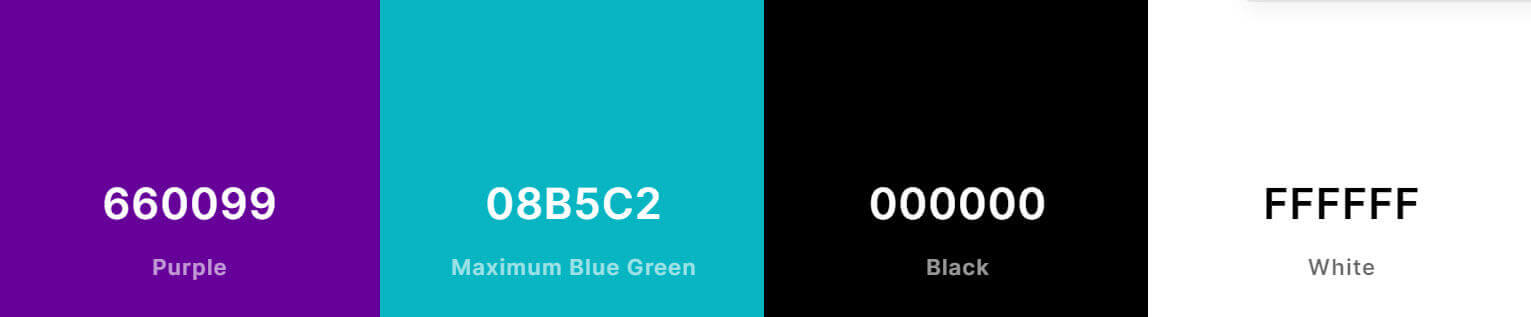
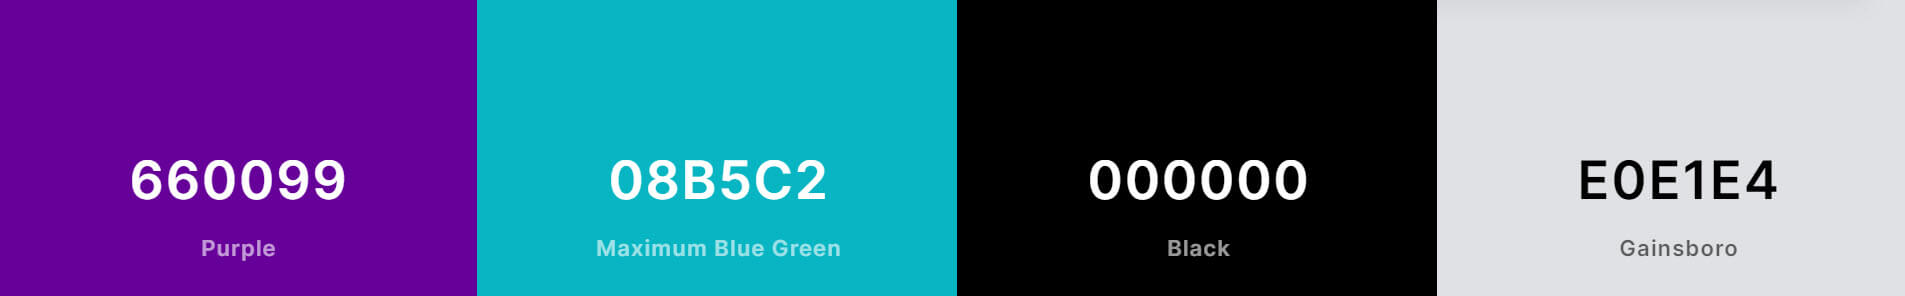
Change colour from White to Gainsboro

diff --git a/assets/css/style.css b/assets/css/style.css
@@ -80,7 +80,7 @@ a {
 /*----------------------------------------------------Hover*/
 
 a:hover {
-    color: #fff;
+    color: #E0E1E4;
     text-decoration: none;
     cursor: pointer;
 }
@@ -119,7 +119,7 @@ button:hover {
 /*----------------------------------------------------Footer*/
 
 .copyright-style {
-    color: #FFF;
+    color: #E0E1E4;
     font-family: "Fresca", sans-serif;
     font-size: 12px;
     letter-spacing: 1px;
@@ -168,5 +168,4 @@ button:hover {
     button {
         font-size: 40px;
     }
-
 }

diff --git a/README.md b/README.md
@@ -155,10 +155,15 @@ Colour scheme
 * I made the background colour of the pages purple #660099 for two reasons. 1. Purple is a royal colour 
 and cats think they are royalty. 2. My favourite colour is purple.
 * I then wanted a blue/green colour to compliment the purple. I selected a Maximum Blue Green #08B5C2.
-* I kept the text colour generic and used black #000 and the hover colour white #FFF.
+* I kept the text colour generic and used Black #000 in some parts and a Gainsboro colour #E0E1E4 for some of the other 
+text, such as copyright information in the footer, the numbers on level 1 and level 2 and the exit and restart game buttons. 
+I originally used white, however the white was too bright on the screen.
+* The hover colour is Gainsboro #E0E1E4 when hovered over the black text on the homepage.
+* The buttons hover colour on Level 1 and Level 2 is black.
+
 
 ![4 Colours](./readme-images/website-colours.jpg)
-Colours sourced using [Coolors](https://coolors.co/660099-08b5c2-000000-ffffff)
+Colours sourced using [Coolors](https://coolors.co/660099-08b5c2-000000-e0e1e4)
 
 * The colours were checked through [WebAIM](https://webaim.org/resources/contrastchecker/) to ensure that the colours were accessible.
 
